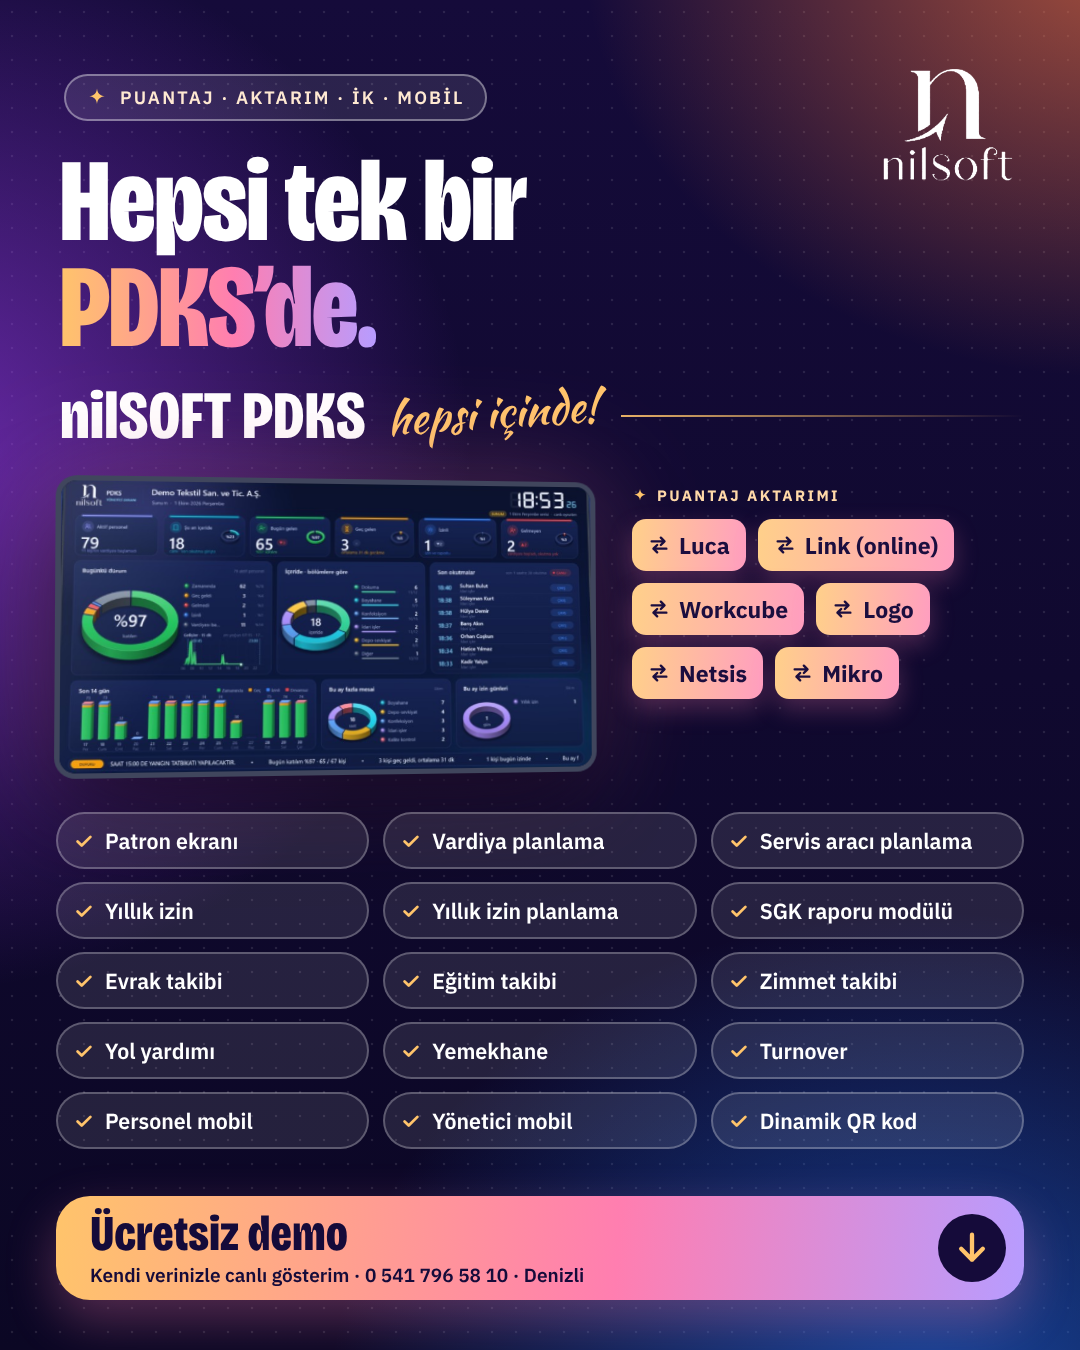
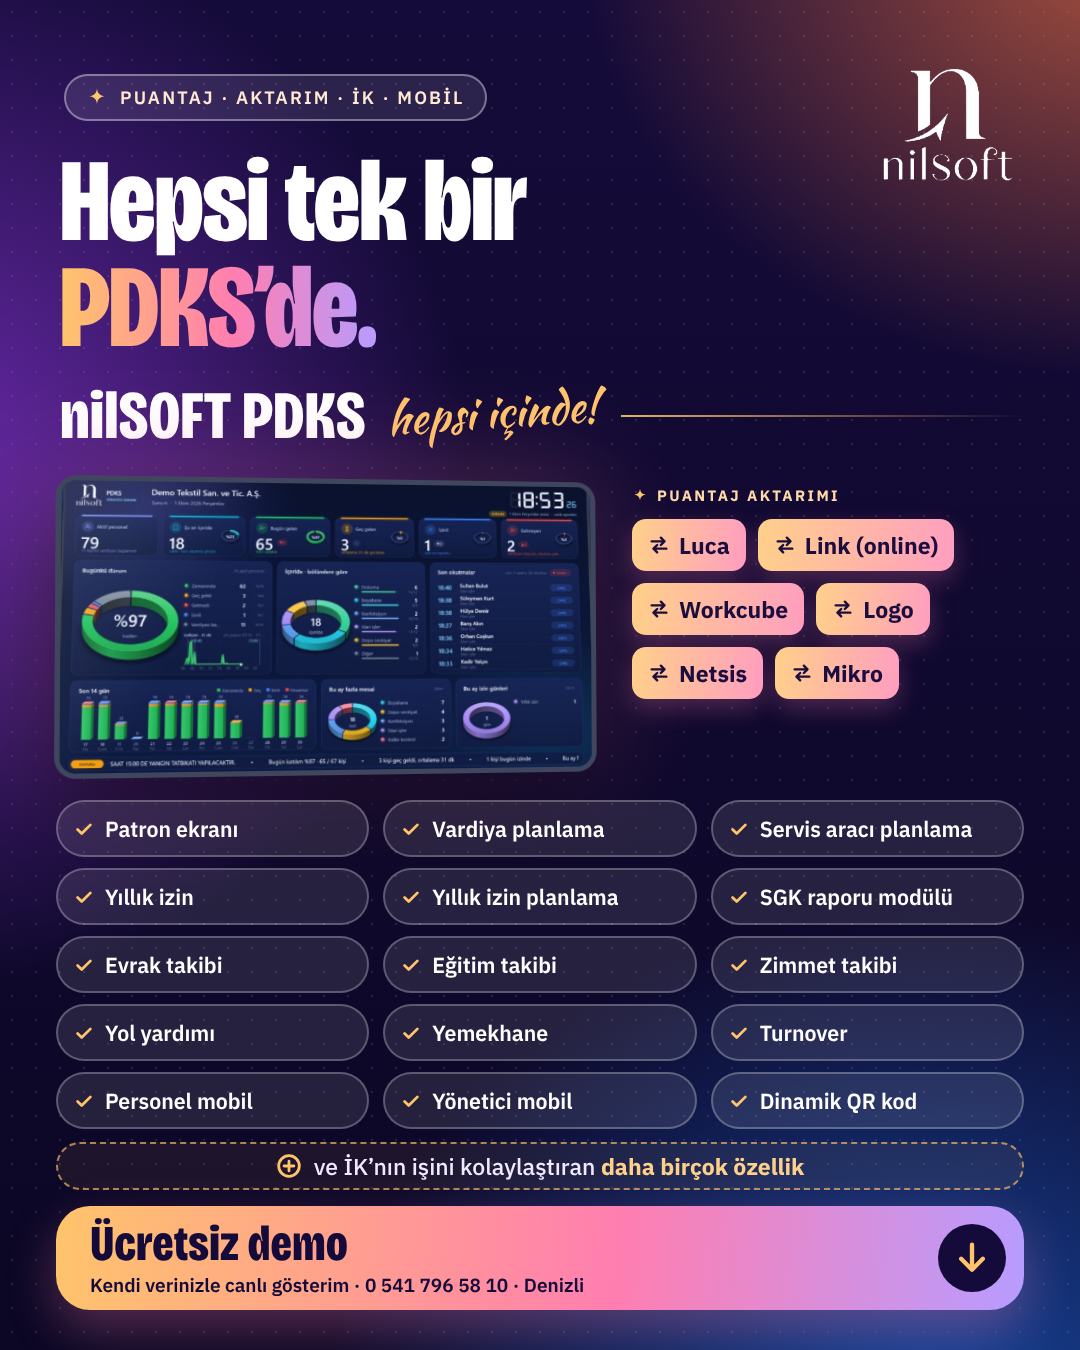
Reklam görselleri: 've İK'nın işini kolaylaştıran daha birçok özellik' satırı eklendi
Claude-Session: https://claude.ai/code/session_01SS6PbVVJjAUWyQGhnQeERD

Changed region(s): [[0.0306, 0.5911, 0.9472, 0.9956]]

diff --git a/sablon/reklam_hepsi.py b/sablon/reklam_hepsi.py
@@ -35,6 +35,8 @@ html,body {{ background:#000; }}
 .chk {{ display:inline-flex; align-items:center; gap:10px; border-radius:999px; font-weight:600; white-space:nowrap; }}
 .chk svg {{ flex:none; }}
 .cta {{ display:flex; align-items:center; justify-content:space-between; }}
+.more {{ display:flex; align-items:center; justify-content:center; gap:12px; border-radius:999px; font-weight:500; white-space:nowrap; border:2px dashed; }}
+.more b {{ font-weight:700; }}
 .cta .t {{ font-family:"Brico"; font-weight:800; font-stretch:75%; line-height:1; }}
 .cta .s {{ font-weight:600; white-space:nowrap; }}
 .cta .go {{ border-radius:50%; display:grid; place-items:center; flex:none; }}
@@ -53,6 +55,12 @@ def underline(w, c1, c2, uid):
             f'<stop offset="0" stop-color="{c1}"/><stop offset="1" stop-color="{c2}"/></linearGradient></defs>'
             f'<path d="M6,24 C{w*.25:.0f},12 {w*.6:.0f},8 {w-8},16" fill="none" stroke="url(#{uid})" stroke-width="9" stroke-linecap="round"/>'
             f'<path d="M{w*.12:.0f},33 C{w*.4:.0f},25 {w*.7:.0f},23 {w*.9:.0f},27" fill="none" stroke="url(#{uid})" stroke-width="5" stroke-linecap="round" opacity=".8"/></svg>')
+MORE_TXT = "ve İK’nın işini kolaylaştıran <b>daha birçok özellik</b>"
+def PLUS(col, s=26):
+    return f'<svg viewBox="0 0 24 24" width="{s}" height="{s}" fill="none" stroke="{col}" stroke-width="2.6" stroke-linecap="round" aria-hidden="true"><circle cx="12" cy="12" r="9.5"/><path d="M12 7.5v9M7.5 12h9"/></svg>'
+def more(top, h, fs, col, extra=""):
+    pos = f'position:absolute;left:56px;right:56px;top:{top}px;' if top is not None else ''
+    return f'<div class="more" style="{pos}height:{h}px;font-size:{fs}px;{extra}">{PLUS(col)}<span>{MORE_TXT}</span></div>'
 def page(css, body, H, cls=""):
     return f'<!doctype html><html lang="tr"><head><meta charset="utf-8"><style>{BASE}{css}</style></head><body><div class="cv {cls}" style="height:{H}px">{body}</div></body></html>'
 def cta(top, h, big, small, pad, btn, arrow_col, txt="Kendi verinizle canlı gösterim · 0 541 796 58 10 · Denizli"):
@@ -81,6 +89,8 @@ CSS1 = """
 .grid { display:grid; grid-template-columns:repeat(3,1fr); }
 .cta { border-radius:34px; background:linear-gradient(95deg,#FFC46B 0%,#FF7EB0 58%,#B79CFF 100%); color:#150B3A; box-shadow:0 20px 50px rgba(255,126,176,.30); }
 .cta .go { background:#150B3A; }
+.more { border-color:rgba(255,196,107,.65); color:#F3E9FF; background:rgba(255,196,107,.07); }
+.more b { color:#FFD08A; }
 """
 def v1(story):
     H = 1920 if story else 1350
@@ -102,16 +112,18 @@ def v1(story):
         b += f'<div class="abs hero" style="left:76px;top:{hy}px;width:520px;transform:perspective(1600px) rotateY(9deg) rotateX(2deg);transform-origin:right center"><img src="file://{D}/patron_ekrani.png"></div>'
         ak = "".join(f'<span class="ak" style="padding:11px 16px;font-size:23px">{SWAP("#1B0E3F")}{t}</span>' for t in AKT_KISA)
         b += f'<div class="abs" style="left:632px;top:{hy+4}px;width:400px"><div class="ak-t">{SPARK("#FFC46B",16)}PUANTAJ AKTARIMI</div><div style="display:flex;flex-wrap:wrap;gap:12px;margin-top:14px">{ak}</div></div>'
-        b += f'<div class="abs grid" style="left:56px;right:56px;top:{hy+330}px;gap:13px 14px">{chips(22, 12, 15)}</div>'
-        b += cta(1196, 104, 50, 19, "0 18px 0 34px", 68, "#FFC46B")
+        b += f'<div class="abs grid" style="left:56px;right:56px;top:{hy+318}px;gap:11px 14px">{chips(22, 12, 15)}</div>'
+        b += more(1142, 48, 23, "#FFC46B")
+        b += cta(1206, 104, 50, 19, "0 18px 0 34px", 68, "#FFC46B")
     else:
-        hy = by + 108
-        b += f'<div class="abs hero" style="left:240px;top:{hy}px;width:600px;transform:perspective(1800px) rotateX(6deg);transform-origin:center bottom"><img src="file://{D}/patron_ekrani.png"></div>'
+        hy = by + 100
+        b += f'<div class="abs hero" style="left:255px;top:{hy}px;width:570px;transform:perspective(1800px) rotateX(6deg);transform-origin:center bottom"><img src="file://{D}/patron_ekrani.png"></div>'
         ak = "".join(f'<span class="ak" style="padding:10px 15px;font-size:22px">{SWAP("#1B0E3F", 20)}{t}</span>' for t in AKT_KISA)
-        ay = hy + 362
+        ay = hy + 340
         b += f'<div class="abs" style="left:56px;right:56px;top:{ay}px"><div class="ak-t">{SPARK("#FFC46B",16)}PUANTAJ AKTARIMI</div><div style="display:flex;gap:11px;margin-top:12px;justify-content:space-between">{ak}</div></div>'
-        b += f'<div class="abs grid" style="left:56px;right:56px;top:{ay+104}px;gap:10px 14px">{chips(23, 10, 15)}</div>'
-        b += cta(1476, 106, 54, 21, "0 20px 0 38px", 74, "#FFC46B")
+        b += f'<div class="abs grid" style="left:56px;right:56px;top:{ay+102}px;gap:9px 14px">{chips(23, 10, 15)}</div>'
+        b += more(1422, 48, 24, "#FFC46B")
+        b += cta(1482, 104, 54, 21, "0 20px 0 38px", 74, "#FFC46B")
     return page(CSS1, b, H)
 
 # ======================================================================= V2 — Sarı-siyah
@@ -130,6 +142,7 @@ CSS2 = """
 .cta { border-radius:34px; background:#111; color:#fff; box-shadow:0 22px 50px rgba(90,60,0,.35); }
 .cta .t { color:#FFD21F; }
 .cta .go { background:#FFD21F; }
+.more { border-color:#111; border-width:2.5px; color:#111; }
 """
 def v2(story):
     H = 1920 if story else 1350
@@ -145,11 +158,12 @@ def v2(story):
     b += (f'<div class="abs" style="left:60px;right:56px;top:{by}px;display:flex;align-items:center;gap:22px">'
           f'<span class="br" style="font-size:{bs}px">nilSOFT PDKS</span><span class="rule" style="flex:1"></span>'
           f'<span class="kau" style="font-size:{int(bs*.66)}px;transform:rotate(-4deg) translateY(-4px)">hepsi içinde!</span></div>')
-    fs, py, px, gap, rg = (28, 14, 21, 13, 22) if story else (27, 12, 20, 13, 13)
+    fs, py, px, gap, rg = (28, 14, 21, 13, 16) if story else (27, 12, 20, 13, 13)
     order = [("k", t) for t in AKTARIM] + [("w", t) for t in MODUL]
     rows = [order[i:i+3] for i in range(0, len(order), 3)]
     c = "".join('<div class="cloud" style="gap:%dpx">' % gap + "".join(
         f'<span class="chk {k}" style="padding:{py}px {px}px;font-size:{fs}px">{CHECK("#FFD21F" if k=="k" else "#111", 24)}{t}</span>' for k, t in row) + '</div>' for row in rows)
+    c += '<div class="cloud">' + more(None, 58 if story else 54, 26 if story else 25, "#111", "padding:0 26px;") + '</div>'
     b += f'<div class="abs" style="left:40px;right:40px;top:{by + (130 if story else 104)}px;display:flex;flex-direction:column;gap:{rg}px">{c}</div>'
     if not story: b += cta(1198, 104, 50, 19, "0 18px 0 34px", 68, "#111")
     else:         b += cta(1474, 108, 54, 21, "0 20px 0 38px", 74, "#111")
@@ -181,6 +195,8 @@ CSS3 = """
 .med b { font-family:"Brico"; font-weight:800; font-stretch:75%; letter-spacing:.04em; color:#0E1B3D; line-height:1; }
 .cta { border-radius:34px; background:linear-gradient(95deg,#2563EB 0%,#7C3AED 58%,#DB2777 100%); color:#fff; box-shadow:0 20px 50px rgba(76,60,220,.30); }
 .cta .go { background:#fff; }
+.more { border-color:rgba(124,58,237,.55); color:#0E1B3D; background:rgba(255,255,255,.6); }
+.more b { color:#6D28D9; }
 """
 def hub(cy, ch, cg, lh, fs, R=112):
     cx, xl, xr = 540, 366, 714           # sol sütunun sağ kenarı, sağ sütunun sol kenarı
@@ -227,17 +243,19 @@ def v3(story):
         b += f'<div class="abs hd" style="left:60px;top:{ty}px;font-size:{hs}px"><div>Hepsi tek bir</div><div class="grad">PDKS’de.</div></div>'
         ly = ty + int(hs * 1.8) + 34
         b += f'<div class="abs" style="left:60px;top:{ly}px;display:flex;align-items:center;gap:22px"><span class="lab br" style="font-size:64px;padding:12px 26px 14px">nilSOFT PDKS</span><span class="kau" style="font-size:50px;color:#7C3AED;transform:rotate(-4deg)">hepsi içinde!</span></div>'
-        h, tot = hub(1072, 51, 9, 34, 24)
+        h, tot = hub(1046, 50, 9, 34, 24)
         b += h
-        b += cta(1476, 106, 54, 21, "0 20px 0 38px", 74, "#2563EB")
+        b += more(1422, 48, 24, "#7C3AED")
+        b += cta(1482, 104, 54, 21, "0 20px 0 38px", 74, "#2563EB")
     else:
         ty, hs = top + 84, 104
         b += f'<div class="abs hd" style="left:60px;top:{ty}px;font-size:{hs}px">Hepsi tek bir <span class="grad">PDKS’de.</span></div>'
         ly = ty + int(hs * .9) + 24
         b += f'<div class="abs" style="left:60px;top:{ly}px;display:flex;align-items:center;gap:20px"><span class="lab br" style="font-size:54px;padding:10px 22px 12px">nilSOFT PDKS</span><span class="kau" style="font-size:44px;color:#7C3AED;transform:rotate(-4deg)">hepsi içinde!</span></div>'
-        h, tot = hub(782, 49, 9, 32, 23, R=108)
+        h, tot = hub(770, 48, 9, 32, 23, R=108)
         b += h
-        b += cta(1204, 100, 48, 19, "0 18px 0 34px", 66, "#2563EB")
+        b += more(1140, 48, 23, "#7C3AED")
+        b += cta(1206, 100, 48, 19, "0 18px 0 34px", 66, "#2563EB")
     return page(CSS3, b, H)
 
 JOBS = {"v1": [("R1_aurora_post", v1(False), 1350), ("R1_aurora_story", v1(True), 1920)],
@@ -247,7 +265,7 @@ only = sys.argv[1:] or list(JOBS)
 JS = """(()=>{const r=e=>{const b=e.getBoundingClientRect();return [Math.round(b.left),Math.round(b.top),Math.round(b.right),Math.round(b.bottom)]};
  const all=[...document.querySelectorAll('.chk,.hc,.ak,.gl')].map(r);
  return {hd:[...document.querySelectorAll('.hd')].map(r), minL:Math.min(...all.map(a=>a[0])), maxR:Math.max(...all.map(a=>a[2])), minT:Math.min(...all.map(a=>a[1])), maxB:Math.max(...all.map(a=>a[3])),
-  cta:r(document.querySelector('.cta')), ctaS:r(document.querySelector('.cta .s')), hero:document.querySelector('.hero')?r(document.querySelector('.hero')):null, n:all.length}})()"""
+  cta:r(document.querySelector('.cta')), ctaS:r(document.querySelector('.cta .s')), hero:document.querySelector('.hero')?r(document.querySelector('.hero')):null, more:r(document.querySelector('.more')), n:all.length}})()"""
 with sync_playwright() as p:
     br = p.chromium.launch(); pg = br.new_page(device_scale_factor=1)
     for key in only:
